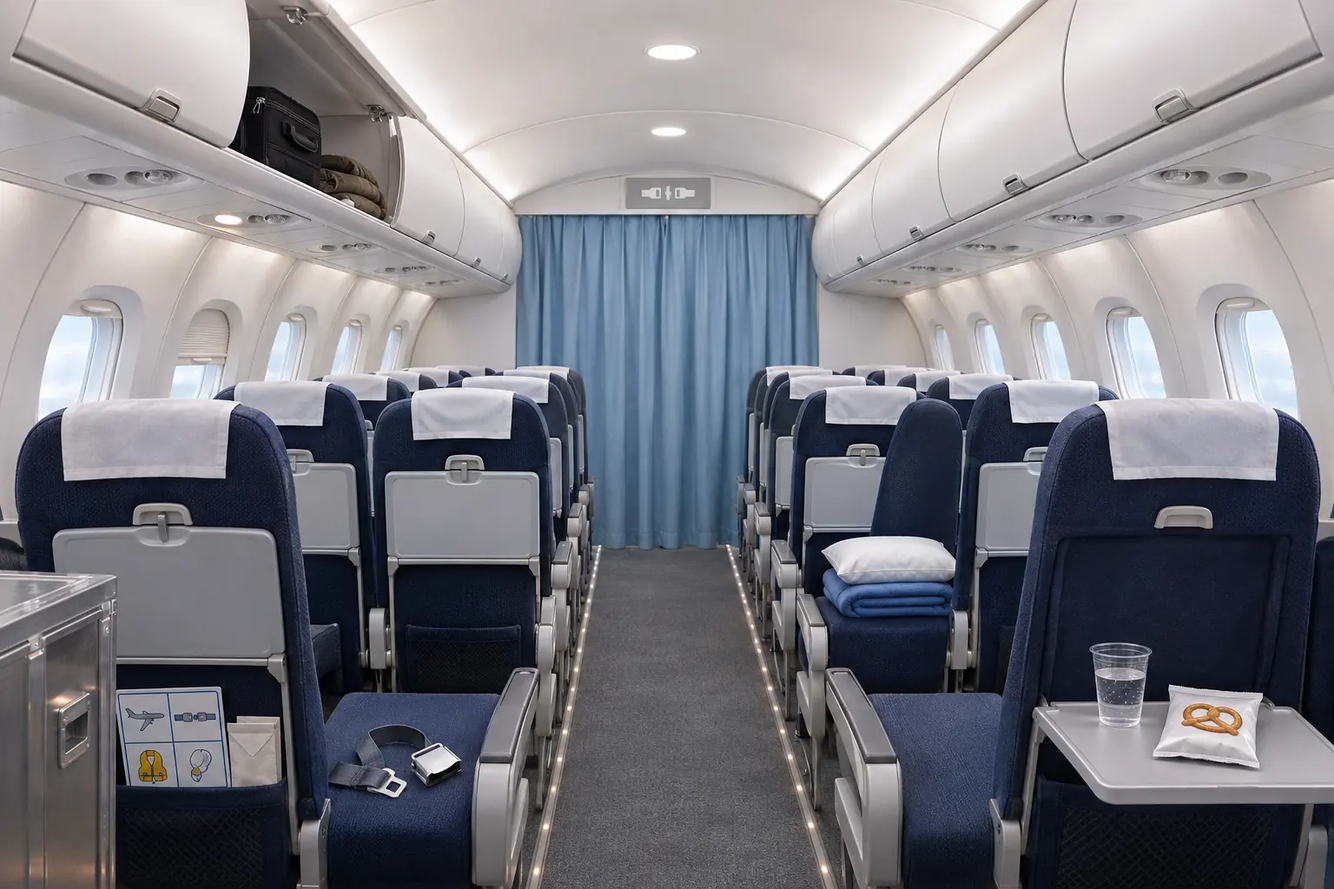
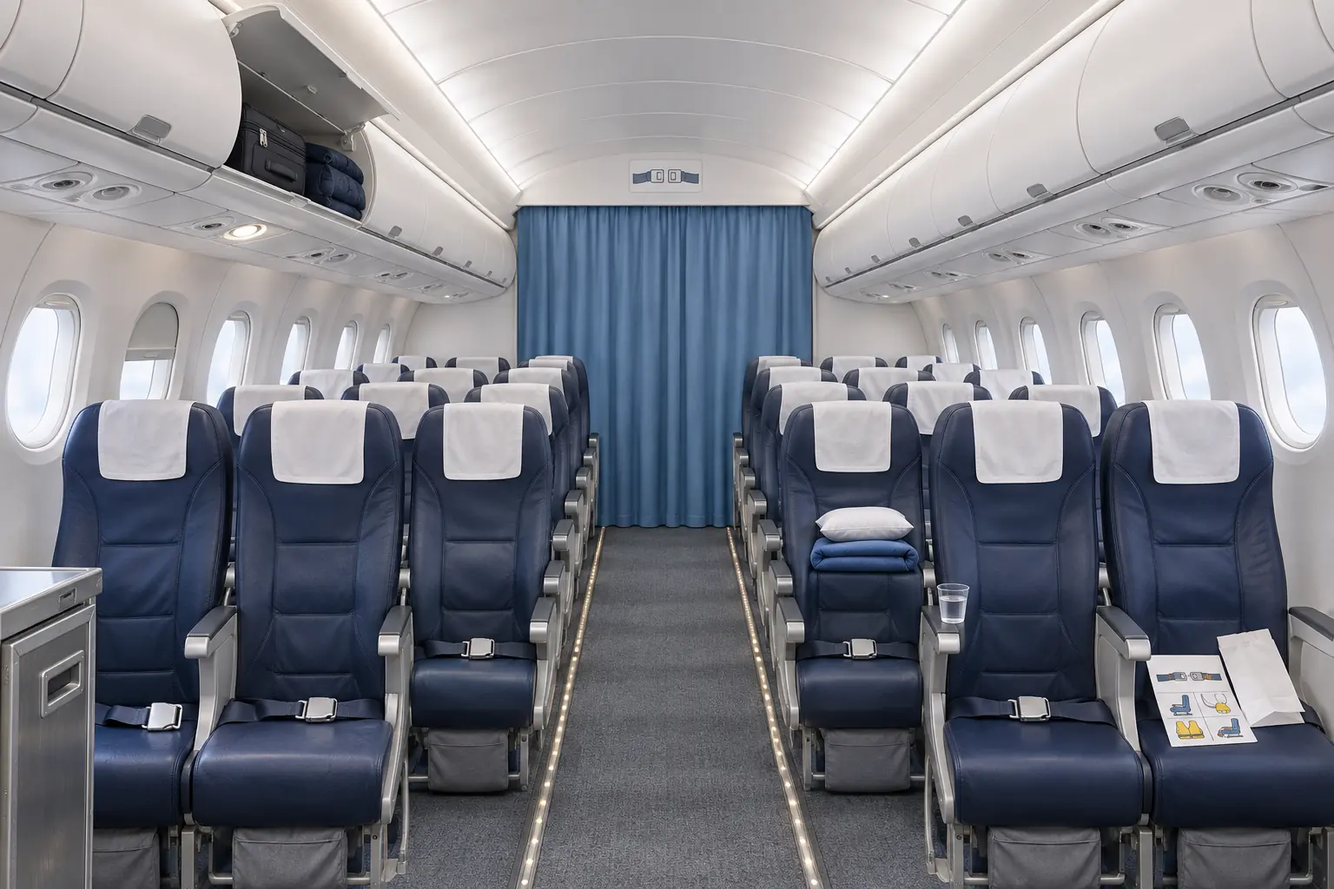
Re-render the airport cabin with every seat facing the camera

diff --git a/airport.html b/airport.html
@@ -8,7 +8,7 @@
 <link rel="preconnect" href="https://fonts.gstatic.com" crossorigin>
 <link rel="stylesheet" href="assets/theme.css">
 <link href="https://fonts.googleapis.com/css2?family=Outfit:wght@400;500;600;700;800&family=JetBrains+Mono:wght@400;500&display=swap" rel="stylesheet">
-<meta name="description" content="Take a trip through an airport, from the taxi at departures to your seat on the plane and back out through arrivals, and learn the English name of everything you see: 289 words across nine views, with a game to test yourself.">
+<meta name="description" content="Take a trip through an airport, from the taxi at departures to your seat on the plane and back out through arrivals, and learn the English name of everything you see: 285 words across nine views, with a game to test yourself.">
 <link rel="canonical" href="https://johnplusenglish.com/airport.html">
 <style>
 :root{--ink:#14161a;--ink-2:#4a4f58;--ink-3:#7b818c;--line:#e3e1dc;--bg:#f6f5f2;--card:#fff;--accent:#1d4e89;--good:#1f7a4d;--bad:#b3382c;
@@ -509,7 +509,7 @@ body.presenting{overflow:hidden}
 <script src="https://cdn.jsdelivr.net/npm/motion@14.9.0/dist/motion.js" integrity="sha384-mzhnnVPTOvuHjQX0cuFH5wg2l5YcbPcpPqOoHFowMkg6VYQBWwZKGH+EAVZsi6zJ" crossorigin="anonymous"></script>
 <script>
 /* One room or the whole flat: ROOMS is the only difference between them. */
-var ROOMS=[{"title": "The drop-off", "alt": "The front of an airport terminal with a taxi at the kerb and luggage trolleys", "key": "airport_vocab_the_drop_off_v1", "img": "images/airport/the-drop-off.webp", "at": [0.056, 0.361], "words": [{"x": 59.5, "y": 18.0, "w": "cloud"}, {"x": 30.0, "y": 29.5, "w": "canopy"}, {"x": 24.3, "y": 33.1, "w": "ceiling light"}, {"x": 51.5, "y": 36.4, "w": "departures sign"}, {"x": 22.3, "y": 44.3, "w": "departure board"}, {"x": 51.3, "y": 50.0, "w": "revolving door"}, {"x": 31.3, "y": 51.5, "w": "sliding doors"}, {"x": 70.2, "y": 38.5, "w": "pillar"}, {"x": 12.5, "y": 55.6, "w": "taxi"}, {"x": 12.0, "y": 48.5, "w": "taxi sign"}, {"x": 21.0, "y": 52.0, "w": "boot"}, {"x": 8.3, "y": 52.6, "w": "wing mirror"}, {"x": 19.5, "y": 55.0, "w": "rear light"}, {"x": 21.5, "y": 57.9, "w": "number plate"}, {"x": 16.8, "y": 59.0, "w": "wheel"}, {"x": 23.8, "y": 59.4, "w": "suitcase"}, {"x": 35.0, "y": 55.2, "w": "bin"}, {"x": 40.1, "y": 56.0, "w": "bench"}, {"x": 59.6, "y": 55.4, "w": "recycling bin"}, {"x": 63.5, "y": 55.6, "w": "wheelchair"}, {"x": 75.1, "y": 55.6, "w": "luggage trolley"}, {"x": 77.8, "y": 52.6, "w": "backpack"}, {"x": 84.6, "y": 52.6, "w": "plants"}, {"x": 84.6, "y": 57.1, "w": "planter"}, {"x": 91.6, "y": 42.0, "w": "bus shelter"}, {"x": 97.6, "y": 37.6, "w": "bus stop sign"}, {"x": 90.1, "y": 69.1, "w": "zebra crossing"}, {"x": 68.1, "y": 69.5, "w": "manhole cover"}, {"x": 16.5, "y": 67.4, "w": "white line"}, {"x": 40.0, "y": 82.0, "w": "kerb"}, {"x": 50.0, "y": 92.0, "w": "pavement"}, {"x": 1.3, "y": 70.0, "w": "bollard"}]}, {"title": "Check-in", "alt": "An airport check-in hall with three desks, a departure board and queue barriers", "key": "airport_vocab_the_check_in_v1", "img": "images/airport/the-check-in.webp", "at": [0.183, 0.361], "words": [{"x": 24.1, "y": 7.0, "w": "ceiling light"}, {"x": 44.9, "y": 29.5, "w": "departure board"}, {"x": 6.5, "y": 52.0, "w": "self check-in kiosk"}, {"x": 14.8, "y": 50.0, "w": "bag drop"}, {"x": 17.0, "y": 40.0, "w": "wrapping machine"}, {"x": 22.8, "y": 44.0, "w": "water fountain"}, {"x": 23.8, "y": 51.1, "w": "bin"}, {"x": 46.7, "y": 49.5, "w": "check-in desk"}, {"x": 28.8, "y": 42.0, "w": "monitor"}, {"x": 46.0, "y": 45.4, "w": "bag tags"}, {"x": 32.4, "y": 44.6, "w": "printer"}, {"x": 26.8, "y": 44.9, "w": "card machine"}, {"x": 37.9, "y": 52.3, "w": "bag scale"}, {"x": 51.6, "y": 50.8, "w": "conveyor belt"}, {"x": 34.2, "y": 61.0, "w": "suitcase"}, {"x": 34.5, "y": 54.0, "w": "holdall"}, {"x": 34.1, "y": 66.1, "w": "luggage trolley"}, {"x": 49.2, "y": 59.6, "w": "pushchair"}, {"x": 63.5, "y": 63.5, "w": "ride-on suitcase"}, {"x": 71.9, "y": 62.5, "w": "queue barrier"}, {"x": 9.1, "y": 80.6, "w": "wet floor sign"}, {"x": 95.2, "y": 22.8, "w": "clock"}, {"x": 71.1, "y": 28.3, "w": "sign"}, {"x": 72.9, "y": 41.0, "w": "doorway"}, {"x": 67.1, "y": 41.0, "w": "frosted glass"}, {"x": 81.7, "y": 34.2, "w": "cabinet"}, {"x": 81.1, "y": 39.1, "w": "plastic bags"}, {"x": 80.1, "y": 47.7, "w": "table"}, {"x": 83.3, "y": 54.2, "w": "luggage sizer"}, {"x": 95.7, "y": 59.6, "w": "bench"}]}, {"title": "Security", "alt": "Airport security with the X-ray belt, grey trays and a metal detector arch", "key": "airport_vocab_security_v1", "img": "images/airport/security.webp", "at": [0.355, 0.361], "words": [{"x": 22.8, "y": 6.1, "w": "ceiling light"}, {"x": 14.5, "y": 54.7, "w": "X-ray machine"}, {"x": 8.1, "y": 49.3, "w": "emergency button"}, {"x": 6.5, "y": 87.9, "w": "rollers"}, {"x": 5.9, "y": 81.1, "w": "tray"}, {"x": 4.9, "y": 75.2, "w": "laptop"}, {"x": 7.2, "y": 67.4, "w": "trainers"}, {"x": 11.7, "y": 68.7, "w": "belt"}, {"x": 12.1, "y": 63.0, "w": "phone"}, {"x": 14.1, "y": 63.3, "w": "keys"}, {"x": 16.4, "y": 62.9, "w": "watch"}, {"x": 23.8, "y": 45.9, "w": "stack of trays"}, {"x": 26.4, "y": 52.0, "w": "plastic bag"}, {"x": 34.2, "y": 43.9, "w": "body scanner"}, {"x": 43.8, "y": 46.9, "w": "metal detector"}, {"x": 61.0, "y": 54.3, "w": "wand"}, {"x": 65.0, "y": 57.0, "w": "table"}, {"x": 71.9, "y": 48.5, "w": "desk"}, {"x": 66.3, "y": 43.5, "w": "monitor"}, {"x": 68.4, "y": 51.3, "w": "office chair"}, {"x": 68.4, "y": 30.6, "w": "clock"}, {"x": 74.9, "y": 32.2, "w": "frosted glass"}, {"x": 89.8, "y": 29.8, "w": "sign"}, {"x": 90.8, "y": 44.4, "w": "shelf"}, {"x": 91.8, "y": 41.8, "w": "box of gloves"}, {"x": 78.8, "y": 59.6, "w": "trolley"}, {"x": 86.9, "y": 54.7, "w": "bin"}, {"x": 82.8, "y": 61.3, "w": "water bottles"}, {"x": 89.8, "y": 62.5, "w": "bench"}, {"x": 96.4, "y": 61.0, "w": "shoes"}, {"x": 71.6, "y": 78.1, "w": "queue barrier"}]}, {"title": "Duty free", "alt": "A duty free shop with perfume, chocolates, sunglasses and a till", "key": "airport_vocab_duty_free_v1", "img": "images/airport/duty-free.webp", "at": [0.505, 0.361], "words": [{"x": 3.5, "y": 26.5, "w": "foundation"}, {"x": 3.5, "y": 36.8, "w": "lipstick"}, {"x": 9.0, "y": 40.0, "w": "mirror"}, {"x": 5.0, "y": 56.4, "w": "nail varnish"}, {"x": 6.2, "y": 64.6, "w": "face cream"}, {"x": 8.3, "y": 74.2, "w": "body lotion"}, {"x": 3.5, "y": 86.5, "w": "shopping baskets"}, {"x": 12.8, "y": 41.4, "w": "sunglasses"}, {"x": 19.3, "y": 33.5, "w": "neck pillow"}, {"x": 19.3, "y": 43.6, "w": "eye mask"}, {"x": 19.0, "y": 51.5, "w": "adaptor"}, {"x": 19.0, "y": 60.2, "w": "charging cables"}, {"x": 32.3, "y": 39.1, "w": "perfume"}, {"x": 30.1, "y": 68.0, "w": "box of chocolates"}, {"x": 38.3, "y": 70.7, "w": "gift boxes"}, {"x": 48.1, "y": 71.4, "w": "teddy bear"}, {"x": 48.6, "y": 79.0, "w": "table"}, {"x": 24.9, "y": 3.8, "w": "ceiling light"}, {"x": 49.6, "y": 29.3, "w": "sign"}, {"x": 50.0, "y": 50.0, "w": "doorway"}, {"x": 60.8, "y": 45.5, "w": "chocolate bars"}, {"x": 66.1, "y": 51.9, "w": "biscuit tin"}, {"x": 64.0, "y": 58.3, "w": "bags of sweets"}, {"x": 58.0, "y": 64.7, "w": "postcards"}, {"x": 80.8, "y": 33.8, "w": "red wine"}, {"x": 87.1, "y": 29.7, "w": "white wine"}, {"x": 86.9, "y": 43.6, "w": "whisky"}, {"x": 76.1, "y": 57.1, "w": "card machine"}, {"x": 79.1, "y": 56.4, "w": "shopping bag"}, {"x": 82.6, "y": 53.4, "w": "till"}, {"x": 85.6, "y": 57.9, "w": "sweet jar"}, {"x": 80.1, "y": 67.7, "w": "counter"}, {"x": 87.2, "y": 70.3, "w": "stool"}, {"x": 93.6, "y": 28.6, "w": "sun hat"}, {"x": 95.6, "y": 40.6, "w": "sun cream"}, {"x": 96.1, "y": 78.2, "w": "aloe vera gel"}]}, {"title": "The gate", "alt": "A departure gate lounge with seats, the gate desk and a plane outside the window", "key": "airport_vocab_the_gate_v1", "img": "images/airport/the-gate.webp", "at": [0.654, 0.361], "words": [{"x": 53.4, "y": 38.1, "w": "plane"}, {"x": 47.4, "y": 30.8, "w": "tail"}, {"x": 36.5, "y": 38.6, "w": "wing"}, {"x": 44.6, "y": 44.4, "w": "engine"}, {"x": 60.5, "y": 36.1, "w": "cockpit"}, {"x": 53.4, "y": 46.9, "w": "steps"}, {"x": 65.1, "y": 40.0, "w": "jet bridge"}, {"x": 61.2, "y": 48.8, "w": "wheels"}, {"x": 57.3, "y": 51.0, "w": "traffic cone"}, {"x": 28.6, "y": 47.6, "w": "van"}, {"x": 26.0, "y": 29.3, "w": "window"}, {"x": 82.5, "y": 38.4, "w": "departures board"}, {"x": 35.5, "y": 55.2, "w": "gate desk"}, {"x": 33.4, "y": 47.7, "w": "monitor"}, {"x": 40.7, "y": 48.8, "w": "phone"}, {"x": 37.4, "y": 48.8, "w": "scanner"}, {"x": 73.0, "y": 42.0, "w": "door"}, {"x": 72.8, "y": 56.6, "w": "queue barrier"}, {"x": 95.7, "y": 83.0, "w": "bin"}, {"x": 82.0, "y": 54.7, "w": "recycling bin"}, {"x": 96.0, "y": 65.4, "w": "vending machine"}, {"x": 96.4, "y": 34.2, "w": "crisps"}, {"x": 96.5, "y": 41.0, "w": "biscuits"}, {"x": 95.1, "y": 51.8, "w": "apples"}, {"x": 96.4, "y": 58.1, "w": "bottles of juice"}, {"x": 86.1, "y": 58.6, "w": "takeaway cup"}, {"x": 88.9, "y": 61.0, "w": "newspaper"}, {"x": 30.6, "y": 70.3, "w": "seat"}, {"x": 77.5, "y": 74.2, "w": "cabin bag"}, {"x": 73.4, "y": 80.6, "w": "shopping bag"}, {"x": 19.0, "y": 63.0, "w": "rucksack"}, {"x": 18.8, "y": 56.2, "w": "neck pillow"}, {"x": 12.4, "y": 46.0, "w": "water fountain"}, {"x": 7.0, "y": 49.5, "w": "charging point"}, {"x": 7.8, "y": 58.6, "w": "bar stool"}, {"x": 6.5, "y": 53.7, "w": "counter"}, {"x": 49.8, "y": 7.8, "w": "ceiling light"}, {"x": 41.7, "y": 93.8, "w": "carpet"}]}, {"title": "On the plane", "alt": "Inside a plane, looking down the aisle between the rows of seats", "key": "airport_vocab_on_the_plane_v1", "img": "images/airport/on-the-plane.webp", "at": [0.843, 0.418], "words": [{"x": 84.6, "y": 8.8, "w": "overhead locker"}, {"x": 20.8, "y": 13.7, "w": "cabin bag"}, {"x": 26.4, "y": 20.0, "w": "coat"}, {"x": 11.7, "y": 19.8, "w": "air vent"}, {"x": 17.1, "y": 24.6, "w": "reading light"}, {"x": 50.5, "y": 5.7, "w": "ceiling light"}, {"x": 50.0, "y": 21.5, "w": "seatbelt sign"}, {"x": 49.8, "y": 41.0, "w": "curtain"}, {"x": 6.5, "y": 39.1, "w": "window"}, {"x": 15.5, "y": 37.1, "w": "window blind"}, {"x": 48.8, "y": 76.2, "w": "aisle"}, {"x": 59.0, "y": 85.9, "w": "floor lights"}, {"x": 11.1, "y": 49.8, "w": "headrest"}, {"x": 37.1, "y": 45.9, "w": "row of seats"}, {"x": 81.4, "y": 83.5, "w": "tray table"}, {"x": 28.0, "y": 79.6, "w": "seat"}, {"x": 70.3, "y": 83.0, "w": "aisle seat"}, {"x": 33.2, "y": 84.0, "w": "seatbelt"}, {"x": 15.0, "y": 93.8, "w": "seat pocket"}, {"x": 12.4, "y": 83.0, "w": "safety card"}, {"x": 18.9, "y": 83.5, "w": "sick bag"}, {"x": 38.4, "y": 84.0, "w": "armrest"}, {"x": 66.4, "y": 61.5, "w": "pillow"}, {"x": 66.4, "y": 66.4, "w": "blanket"}, {"x": 83.9, "y": 76.7, "w": "plastic cup"}, {"x": 90.5, "y": 81.1, "w": "pretzels"}, {"x": 3.9, "y": 78.1, "w": "trolley"}]}, {"title": "Passport control", "alt": "Passport control with three booths, e-gates and queue barriers", "key": "airport_vocab_passport_control_v1", "img": "images/airport/passport-control.webp", "at": [0.643, 0.836], "words": [{"x": 18.3, "y": 10.9, "w": "ceiling light"}, {"x": 50.1, "y": 30.4, "w": "sign"}, {"x": 10.3, "y": 35.0, "w": "lighthouse"}, {"x": 13.5, "y": 44.5, "w": "picture"}, {"x": 4.3, "y": 56.0, "w": "water fountain"}, {"x": 7.4, "y": 67.6, "w": "bin"}, {"x": 14.5, "y": 59.4, "w": "seats"}, {"x": 19.8, "y": 48.1, "w": "plant"}, {"x": 27.8, "y": 38.3, "w": "passport booth"}, {"x": 25.8, "y": 48.8, "w": "monitor"}, {"x": 29.2, "y": 45.1, "w": "camera"}, {"x": 28.7, "y": 50.4, "w": "chair"}, {"x": 31.7, "y": 50.0, "w": "scanner"}, {"x": 32.6, "y": 46.2, "w": "glass screen"}, {"x": 27.8, "y": 55.6, "w": "desk"}, {"x": 27.8, "y": 62.7, "w": "yellow line"}, {"x": 34.5, "y": 67.6, "w": "suitcase"}, {"x": 23.3, "y": 68.4, "w": "queue barrier"}, {"x": 55.0, "y": 46.2, "w": "screen"}, {"x": 61.6, "y": 54.0, "w": "e-gate"}, {"x": 75.6, "y": 49.2, "w": "passport reader"}, {"x": 65.6, "y": 63.9, "w": "pushchair"}, {"x": 82.6, "y": 57.1, "w": "luggage trolleys"}, {"x": 93.1, "y": 64.6, "w": "bench"}, {"x": 89.4, "y": 43.2, "w": "sheep"}, {"x": 96.6, "y": 25.2, "w": "clock"}]}, {"title": "Baggage reclaim", "alt": "A baggage reclaim hall with suitcases on the carousel and luggage trolleys", "key": "airport_vocab_baggage_reclaim_v1", "img": "images/airport/baggage-reclaim.webp", "at": [0.436, 0.836], "words": [{"x": 22.8, "y": 11.4, "w": "ceiling light"}, {"x": 3.3, "y": 42.1, "w": "cash machine"}, {"x": 5.3, "y": 60.1, "w": "bin"}, {"x": 8.8, "y": 54.8, "w": "recycling bin"}, {"x": 11.3, "y": 47.3, "w": "water fountain"}, {"x": 14.5, "y": 52.6, "w": "seats"}, {"x": 32.1, "y": 33.4, "w": "sign"}, {"x": 29.1, "y": 43.2, "w": "monitor"}, {"x": 32.8, "y": 45.1, "w": "phone"}, {"x": 35.7, "y": 45.5, "w": "forms"}, {"x": 39.0, "y": 45.3, "w": "bell"}, {"x": 32.8, "y": 51.8, "w": "lost luggage desk"}, {"x": 46.1, "y": 29.9, "w": "exit sign"}, {"x": 46.1, "y": 45.1, "w": "sliding doors"}, {"x": 30.1, "y": 71.8, "w": "baggage carousel"}, {"x": 24.6, "y": 66.1, "w": "conveyor belt"}, {"x": 37.6, "y": 63.1, "w": "suitcase"}, {"x": 47.4, "y": 65.4, "w": "holdall"}, {"x": 55.8, "y": 64.2, "w": "backpack"}, {"x": 62.8, "y": 63.1, "w": "cabin bag"}, {"x": 71.0, "y": 62.4, "w": "luggage tag"}, {"x": 64.8, "y": 44.0, "w": "golf clubs"}, {"x": 64.5, "y": 50.3, "w": "golf bag"}, {"x": 71.1, "y": 48.1, "w": "bicycle box"}, {"x": 80.8, "y": 51.1, "w": "wheelchairs"}, {"x": 78.6, "y": 66.7, "w": "pushchair"}, {"x": 80.3, "y": 60.3, "w": "rain cover"}, {"x": 91.1, "y": 54.1, "w": "bench"}, {"x": 87.3, "y": 31.2, "w": "clock"}, {"x": 93.1, "y": 37.6, "w": "picture"}, {"x": 97.1, "y": 29.3, "w": "palm tree"}, {"x": 95.6, "y": 42.4, "w": "beach"}, {"x": 68.8, "y": 32.3, "w": "screen"}, {"x": 85.1, "y": 75.1, "w": "luggage trolley"}]}, {"title": "Arrivals", "alt": "An airport arrivals hall with a coffee kiosk, car hire desks and the exit to the taxis", "key": "airport_vocab_arrivals_v1", "img": "images/airport/arrivals.webp", "at": [0.206, 0.836], "words": [{"x": 16.8, "y": 5.6, "w": "ceiling light"}, {"x": 3.9, "y": 38.3, "w": "croissants"}, {"x": 4.9, "y": 42.2, "w": "muffins"}, {"x": 5.2, "y": 46.4, "w": "sandwiches"}, {"x": 7.8, "y": 34.2, "w": "display case"}, {"x": 13.0, "y": 36.1, "w": "paper cups"}, {"x": 12.0, "y": 41.0, "w": "coffee machine"}, {"x": 10.4, "y": 44.4, "w": "card machine"}, {"x": 6.5, "y": 51.8, "w": "counter"}, {"x": 19.0, "y": 51.2, "w": "table"}, {"x": 4.5, "y": 59.4, "w": "chair"}, {"x": 20.5, "y": 36.6, "w": "screen"}, {"x": 23.9, "y": 43.2, "w": "cash machine"}, {"x": 28.0, "y": 37.1, "w": "plant"}, {"x": 41.9, "y": 49.6, "w": "plant pot"}, {"x": 34.6, "y": 47.3, "w": "seats"}, {"x": 34.6, "y": 31.6, "w": "windows"}, {"x": 49.9, "y": 28.9, "w": "sign"}, {"x": 47.4, "y": 42.1, "w": "sliding doors"}, {"x": 18.0, "y": 67.6, "w": "balloons"}, {"x": 28.1, "y": 73.3, "w": "meeting rail"}, {"x": 49.9, "y": 83.4, "w": "arrow"}, {"x": 55.0, "y": 66.9, "w": "luggage trolley"}, {"x": 51.3, "y": 57.9, "w": "suitcase"}, {"x": 48.5, "y": 61.6, "w": "backpack"}, {"x": 35.5, "y": 40.5, "w": "taxi"}, {"x": 66.1, "y": 38.1, "w": "bus"}, {"x": 63.8, "y": 46.9, "w": "newspaper rack"}, {"x": 70.0, "y": 48.3, "w": "bin"}, {"x": 80.9, "y": 42.2, "w": "monitor"}, {"x": 83.0, "y": 44.5, "w": "toy car"}, {"x": 83.3, "y": 37.6, "w": "car keys"}, {"x": 81.1, "y": 51.3, "w": "car hire desk"}, {"x": 88.5, "y": 32.3, "w": "map"}, {"x": 76.6, "y": 64.6, "w": "bouquet"}]}];
+var ROOMS=[{"title": "The drop-off", "alt": "The front of an airport terminal with a taxi at the kerb and luggage trolleys", "key": "airport_vocab_the_drop_off_v1", "img": "images/airport/the-drop-off.webp", "at": [0.056, 0.361], "words": [{"x": 59.5, "y": 18.0, "w": "cloud"}, {"x": 30.0, "y": 29.5, "w": "canopy"}, {"x": 24.3, "y": 33.1, "w": "ceiling light"}, {"x": 51.5, "y": 36.4, "w": "departures sign"}, {"x": 22.3, "y": 44.3, "w": "departure board"}, {"x": 51.3, "y": 50.0, "w": "revolving door"}, {"x": 31.3, "y": 51.5, "w": "sliding doors"}, {"x": 70.2, "y": 38.5, "w": "pillar"}, {"x": 12.5, "y": 55.6, "w": "taxi"}, {"x": 12.0, "y": 48.5, "w": "taxi sign"}, {"x": 21.0, "y": 52.0, "w": "boot"}, {"x": 8.3, "y": 52.6, "w": "wing mirror"}, {"x": 19.5, "y": 55.0, "w": "rear light"}, {"x": 21.5, "y": 57.9, "w": "number plate"}, {"x": 16.8, "y": 59.0, "w": "wheel"}, {"x": 23.8, "y": 59.4, "w": "suitcase"}, {"x": 35.0, "y": 55.2, "w": "bin"}, {"x": 40.1, "y": 56.0, "w": "bench"}, {"x": 59.6, "y": 55.4, "w": "recycling bin"}, {"x": 63.5, "y": 55.6, "w": "wheelchair"}, {"x": 75.1, "y": 55.6, "w": "luggage trolley"}, {"x": 77.8, "y": 52.6, "w": "backpack"}, {"x": 84.6, "y": 52.6, "w": "plants"}, {"x": 84.6, "y": 57.1, "w": "planter"}, {"x": 91.6, "y": 42.0, "w": "bus shelter"}, {"x": 97.6, "y": 37.6, "w": "bus stop sign"}, {"x": 90.1, "y": 69.1, "w": "zebra crossing"}, {"x": 68.1, "y": 69.5, "w": "manhole cover"}, {"x": 16.5, "y": 67.4, "w": "white line"}, {"x": 40.0, "y": 82.0, "w": "kerb"}, {"x": 50.0, "y": 92.0, "w": "pavement"}, {"x": 1.3, "y": 70.0, "w": "bollard"}]}, {"title": "Check-in", "alt": "An airport check-in hall with three desks, a departure board and queue barriers", "key": "airport_vocab_the_check_in_v1", "img": "images/airport/the-check-in.webp", "at": [0.183, 0.361], "words": [{"x": 24.1, "y": 7.0, "w": "ceiling light"}, {"x": 44.9, "y": 29.5, "w": "departure board"}, {"x": 6.5, "y": 52.0, "w": "self check-in kiosk"}, {"x": 14.8, "y": 50.0, "w": "bag drop"}, {"x": 17.0, "y": 40.0, "w": "wrapping machine"}, {"x": 22.8, "y": 44.0, "w": "water fountain"}, {"x": 23.8, "y": 51.1, "w": "bin"}, {"x": 46.7, "y": 49.5, "w": "check-in desk"}, {"x": 28.8, "y": 42.0, "w": "monitor"}, {"x": 46.0, "y": 45.4, "w": "bag tags"}, {"x": 32.4, "y": 44.6, "w": "printer"}, {"x": 26.8, "y": 44.9, "w": "card machine"}, {"x": 37.9, "y": 52.3, "w": "bag scale"}, {"x": 51.6, "y": 50.8, "w": "conveyor belt"}, {"x": 34.2, "y": 61.0, "w": "suitcase"}, {"x": 34.5, "y": 54.0, "w": "holdall"}, {"x": 34.1, "y": 66.1, "w": "luggage trolley"}, {"x": 49.2, "y": 59.6, "w": "pushchair"}, {"x": 63.5, "y": 63.5, "w": "ride-on suitcase"}, {"x": 71.9, "y": 62.5, "w": "queue barrier"}, {"x": 9.1, "y": 80.6, "w": "wet floor sign"}, {"x": 95.2, "y": 22.8, "w": "clock"}, {"x": 71.1, "y": 28.3, "w": "sign"}, {"x": 72.9, "y": 41.0, "w": "doorway"}, {"x": 67.1, "y": 41.0, "w": "frosted glass"}, {"x": 81.7, "y": 34.2, "w": "cabinet"}, {"x": 81.1, "y": 39.1, "w": "plastic bags"}, {"x": 80.1, "y": 47.7, "w": "table"}, {"x": 83.3, "y": 54.2, "w": "luggage sizer"}, {"x": 95.7, "y": 59.6, "w": "bench"}]}, {"title": "Security", "alt": "Airport security with the X-ray belt, grey trays and a metal detector arch", "key": "airport_vocab_security_v1", "img": "images/airport/security.webp", "at": [0.355, 0.361], "words": [{"x": 22.8, "y": 6.1, "w": "ceiling light"}, {"x": 14.5, "y": 54.7, "w": "X-ray machine"}, {"x": 8.1, "y": 49.3, "w": "emergency button"}, {"x": 6.5, "y": 87.9, "w": "rollers"}, {"x": 5.9, "y": 81.1, "w": "tray"}, {"x": 4.9, "y": 75.2, "w": "laptop"}, {"x": 7.2, "y": 67.4, "w": "trainers"}, {"x": 11.7, "y": 68.7, "w": "belt"}, {"x": 12.1, "y": 63.0, "w": "phone"}, {"x": 14.1, "y": 63.3, "w": "keys"}, {"x": 16.4, "y": 62.9, "w": "watch"}, {"x": 23.8, "y": 45.9, "w": "stack of trays"}, {"x": 26.4, "y": 52.0, "w": "plastic bag"}, {"x": 34.2, "y": 43.9, "w": "body scanner"}, {"x": 43.8, "y": 46.9, "w": "metal detector"}, {"x": 61.0, "y": 54.3, "w": "wand"}, {"x": 65.0, "y": 57.0, "w": "table"}, {"x": 71.9, "y": 48.5, "w": "desk"}, {"x": 66.3, "y": 43.5, "w": "monitor"}, {"x": 68.4, "y": 51.3, "w": "office chair"}, {"x": 68.4, "y": 30.6, "w": "clock"}, {"x": 74.9, "y": 32.2, "w": "frosted glass"}, {"x": 89.8, "y": 29.8, "w": "sign"}, {"x": 90.8, "y": 44.4, "w": "shelf"}, {"x": 91.8, "y": 41.8, "w": "box of gloves"}, {"x": 78.8, "y": 59.6, "w": "trolley"}, {"x": 86.9, "y": 54.7, "w": "bin"}, {"x": 82.8, "y": 61.3, "w": "water bottles"}, {"x": 89.8, "y": 62.5, "w": "bench"}, {"x": 96.4, "y": 61.0, "w": "shoes"}, {"x": 71.6, "y": 78.1, "w": "queue barrier"}]}, {"title": "Duty free", "alt": "A duty free shop with perfume, chocolates, sunglasses and a till", "key": "airport_vocab_duty_free_v1", "img": "images/airport/duty-free.webp", "at": [0.505, 0.361], "words": [{"x": 3.5, "y": 26.5, "w": "foundation"}, {"x": 3.5, "y": 36.8, "w": "lipstick"}, {"x": 9.0, "y": 40.0, "w": "mirror"}, {"x": 5.0, "y": 56.4, "w": "nail varnish"}, {"x": 6.2, "y": 64.6, "w": "face cream"}, {"x": 8.3, "y": 74.2, "w": "body lotion"}, {"x": 3.5, "y": 86.5, "w": "shopping baskets"}, {"x": 12.8, "y": 41.4, "w": "sunglasses"}, {"x": 19.3, "y": 33.5, "w": "neck pillow"}, {"x": 19.3, "y": 43.6, "w": "eye mask"}, {"x": 19.0, "y": 51.5, "w": "adaptor"}, {"x": 19.0, "y": 60.2, "w": "charging cables"}, {"x": 32.3, "y": 39.1, "w": "perfume"}, {"x": 30.1, "y": 68.0, "w": "box of chocolates"}, {"x": 38.3, "y": 70.7, "w": "gift boxes"}, {"x": 48.1, "y": 71.4, "w": "teddy bear"}, {"x": 48.6, "y": 79.0, "w": "table"}, {"x": 24.9, "y": 3.8, "w": "ceiling light"}, {"x": 49.6, "y": 29.3, "w": "sign"}, {"x": 50.0, "y": 50.0, "w": "doorway"}, {"x": 60.8, "y": 45.5, "w": "chocolate bars"}, {"x": 66.1, "y": 51.9, "w": "biscuit tin"}, {"x": 64.0, "y": 58.3, "w": "bags of sweets"}, {"x": 58.0, "y": 64.7, "w": "postcards"}, {"x": 80.8, "y": 33.8, "w": "red wine"}, {"x": 87.1, "y": 29.7, "w": "white wine"}, {"x": 86.9, "y": 43.6, "w": "whisky"}, {"x": 76.1, "y": 57.1, "w": "card machine"}, {"x": 79.1, "y": 56.4, "w": "shopping bag"}, {"x": 82.6, "y": 53.4, "w": "till"}, {"x": 85.6, "y": 57.9, "w": "sweet jar"}, {"x": 80.1, "y": 67.7, "w": "counter"}, {"x": 87.2, "y": 70.3, "w": "stool"}, {"x": 93.6, "y": 28.6, "w": "sun hat"}, {"x": 95.6, "y": 40.6, "w": "sun cream"}, {"x": 96.1, "y": 78.2, "w": "aloe vera gel"}]}, {"title": "The gate", "alt": "A departure gate lounge with seats, the gate desk and a plane outside the window", "key": "airport_vocab_the_gate_v1", "img": "images/airport/the-gate.webp", "at": [0.654, 0.361], "words": [{"x": 53.4, "y": 38.1, "w": "plane"}, {"x": 47.4, "y": 30.8, "w": "tail"}, {"x": 36.5, "y": 38.6, "w": "wing"}, {"x": 44.6, "y": 44.4, "w": "engine"}, {"x": 60.5, "y": 36.1, "w": "cockpit"}, {"x": 53.4, "y": 46.9, "w": "steps"}, {"x": 65.1, "y": 40.0, "w": "jet bridge"}, {"x": 61.2, "y": 48.8, "w": "wheels"}, {"x": 57.3, "y": 51.0, "w": "traffic cone"}, {"x": 28.6, "y": 47.6, "w": "van"}, {"x": 26.0, "y": 29.3, "w": "window"}, {"x": 82.5, "y": 38.4, "w": "departures board"}, {"x": 35.5, "y": 55.2, "w": "gate desk"}, {"x": 33.4, "y": 47.7, "w": "monitor"}, {"x": 40.7, "y": 48.8, "w": "phone"}, {"x": 37.4, "y": 48.8, "w": "scanner"}, {"x": 73.0, "y": 42.0, "w": "door"}, {"x": 72.8, "y": 56.6, "w": "queue barrier"}, {"x": 95.7, "y": 83.0, "w": "bin"}, {"x": 82.0, "y": 54.7, "w": "recycling bin"}, {"x": 96.0, "y": 65.4, "w": "vending machine"}, {"x": 96.4, "y": 34.2, "w": "crisps"}, {"x": 96.5, "y": 41.0, "w": "biscuits"}, {"x": 95.1, "y": 51.8, "w": "apples"}, {"x": 96.4, "y": 58.1, "w": "bottles of juice"}, {"x": 86.1, "y": 58.6, "w": "takeaway cup"}, {"x": 88.9, "y": 61.0, "w": "newspaper"}, {"x": 30.6, "y": 70.3, "w": "seat"}, {"x": 77.5, "y": 74.2, "w": "cabin bag"}, {"x": 73.4, "y": 80.6, "w": "shopping bag"}, {"x": 19.0, "y": 63.0, "w": "rucksack"}, {"x": 18.8, "y": 56.2, "w": "neck pillow"}, {"x": 12.4, "y": 46.0, "w": "water fountain"}, {"x": 7.0, "y": 49.5, "w": "charging point"}, {"x": 7.8, "y": 58.6, "w": "bar stool"}, {"x": 6.5, "y": 53.7, "w": "counter"}, {"x": 49.8, "y": 7.8, "w": "ceiling light"}, {"x": 41.7, "y": 93.8, "w": "carpet"}]}, {"title": "On the plane", "alt": "Inside a plane, looking down the aisle between the rows of seats", "key": "airport_vocab_on_the_plane_v1", "img": "images/airport/on-the-plane.webp", "at": [0.843, 0.418], "words": [{"x": 25.5, "y": 12.0, "w": "overhead locker"}, {"x": 19.5, "y": 16.0, "w": "cabin bag"}, {"x": 8.0, "y": 21.5, "w": "air vent"}, {"x": 17.5, "y": 26.0, "w": "reading light"}, {"x": 50.0, "y": 19.5, "w": "seatbelt sign"}, {"x": 50.0, "y": 42.0, "w": "curtain"}, {"x": 3.5, "y": 40.0, "w": "window"}, {"x": 11.5, "y": 37.0, "w": "window blind"}, {"x": 11.0, "y": 49.5, "w": "headrest"}, {"x": 10.0, "y": 61.0, "w": "seat"}, {"x": 16.0, "y": 71.5, "w": "armrest"}, {"x": 8.5, "y": 80.2, "w": "seatbelt"}, {"x": 23.0, "y": 79.5, "w": "buckle"}, {"x": 34.5, "y": 85.5, "w": "life jacket"}, {"x": 3.5, "y": 75.0, "w": "trolley"}, {"x": 43.1, "y": 70.0, "w": "floor lights"}, {"x": 46.0, "y": 88.0, "w": "aisle"}, {"x": 65.5, "y": 58.0, "w": "pillow"}, {"x": 65.5, "y": 62.5, "w": "blanket"}, {"x": 71.5, "y": 67.0, "w": "plastic cup"}, {"x": 75.0, "y": 86.0, "w": "cushion"}, {"x": 89.5, "y": 78.0, "w": "safety card"}, {"x": 94.0, "y": 74.0, "w": "sick bag"}]}, {"title": "Passport control", "alt": "Passport control with three booths, e-gates and queue barriers", "key": "airport_vocab_passport_control_v1", "img": "images/airport/passport-control.webp", "at": [0.643, 0.836], "words": [{"x": 18.3, "y": 10.9, "w": "ceiling light"}, {"x": 50.1, "y": 30.4, "w": "sign"}, {"x": 10.3, "y": 35.0, "w": "lighthouse"}, {"x": 13.5, "y": 44.5, "w": "picture"}, {"x": 4.3, "y": 56.0, "w": "water fountain"}, {"x": 7.4, "y": 67.6, "w": "bin"}, {"x": 14.5, "y": 59.4, "w": "seats"}, {"x": 19.8, "y": 48.1, "w": "plant"}, {"x": 27.8, "y": 38.3, "w": "passport booth"}, {"x": 25.8, "y": 48.8, "w": "monitor"}, {"x": 29.2, "y": 45.1, "w": "camera"}, {"x": 28.7, "y": 50.4, "w": "chair"}, {"x": 31.7, "y": 50.0, "w": "scanner"}, {"x": 32.6, "y": 46.2, "w": "glass screen"}, {"x": 27.8, "y": 55.6, "w": "desk"}, {"x": 27.8, "y": 62.7, "w": "yellow line"}, {"x": 34.5, "y": 67.6, "w": "suitcase"}, {"x": 23.3, "y": 68.4, "w": "queue barrier"}, {"x": 55.0, "y": 46.2, "w": "screen"}, {"x": 61.6, "y": 54.0, "w": "e-gate"}, {"x": 75.6, "y": 49.2, "w": "passport reader"}, {"x": 65.6, "y": 63.9, "w": "pushchair"}, {"x": 82.6, "y": 57.1, "w": "luggage trolleys"}, {"x": 93.1, "y": 64.6, "w": "bench"}, {"x": 89.4, "y": 43.2, "w": "sheep"}, {"x": 96.6, "y": 25.2, "w": "clock"}]}, {"title": "Baggage reclaim", "alt": "A baggage reclaim hall with suitcases on the carousel and luggage trolleys", "key": "airport_vocab_baggage_reclaim_v1", "img": "images/airport/baggage-reclaim.webp", "at": [0.436, 0.836], "words": [{"x": 22.8, "y": 11.4, "w": "ceiling light"}, {"x": 3.3, "y": 42.1, "w": "cash machine"}, {"x": 5.3, "y": 60.1, "w": "bin"}, {"x": 8.8, "y": 54.8, "w": "recycling bin"}, {"x": 11.3, "y": 47.3, "w": "water fountain"}, {"x": 14.5, "y": 52.6, "w": "seats"}, {"x": 32.1, "y": 33.4, "w": "sign"}, {"x": 29.1, "y": 43.2, "w": "monitor"}, {"x": 32.8, "y": 45.1, "w": "phone"}, {"x": 35.7, "y": 45.5, "w": "forms"}, {"x": 39.0, "y": 45.3, "w": "bell"}, {"x": 32.8, "y": 51.8, "w": "lost luggage desk"}, {"x": 46.1, "y": 29.9, "w": "exit sign"}, {"x": 46.1, "y": 45.1, "w": "sliding doors"}, {"x": 30.1, "y": 71.8, "w": "baggage carousel"}, {"x": 24.6, "y": 66.1, "w": "conveyor belt"}, {"x": 37.6, "y": 63.1, "w": "suitcase"}, {"x": 47.4, "y": 65.4, "w": "holdall"}, {"x": 55.8, "y": 64.2, "w": "backpack"}, {"x": 62.8, "y": 63.1, "w": "cabin bag"}, {"x": 71.0, "y": 62.4, "w": "luggage tag"}, {"x": 64.8, "y": 44.0, "w": "golf clubs"}, {"x": 64.5, "y": 50.3, "w": "golf bag"}, {"x": 71.1, "y": 48.1, "w": "bicycle box"}, {"x": 80.8, "y": 51.1, "w": "wheelchairs"}, {"x": 78.6, "y": 66.7, "w": "pushchair"}, {"x": 80.3, "y": 60.3, "w": "rain cover"}, {"x": 91.1, "y": 54.1, "w": "bench"}, {"x": 87.3, "y": 31.2, "w": "clock"}, {"x": 93.1, "y": 37.6, "w": "picture"}, {"x": 97.1, "y": 29.3, "w": "palm tree"}, {"x": 95.6, "y": 42.4, "w": "beach"}, {"x": 68.8, "y": 32.3, "w": "screen"}, {"x": 85.1, "y": 75.1, "w": "luggage trolley"}]}, {"title": "Arrivals", "alt": "An airport arrivals hall with a coffee kiosk, car hire desks and the exit to the taxis", "key": "airport_vocab_arrivals_v1", "img": "images/airport/arrivals.webp", "at": [0.206, 0.836], "words": [{"x": 16.8, "y": 5.6, "w": "ceiling light"}, {"x": 3.9, "y": 38.3, "w": "croissants"}, {"x": 4.9, "y": 42.2, "w": "muffins"}, {"x": 5.2, "y": 46.4, "w": "sandwiches"}, {"x": 7.8, "y": 34.2, "w": "display case"}, {"x": 13.0, "y": 36.1, "w": "paper cups"}, {"x": 12.0, "y": 41.0, "w": "coffee machine"}, {"x": 10.4, "y": 44.4, "w": "card machine"}, {"x": 6.5, "y": 51.8, "w": "counter"}, {"x": 19.0, "y": 51.2, "w": "table"}, {"x": 4.5, "y": 59.4, "w": "chair"}, {"x": 20.5, "y": 36.6, "w": "screen"}, {"x": 23.9, "y": 43.2, "w": "cash machine"}, {"x": 28.0, "y": 37.1, "w": "plant"}, {"x": 41.9, "y": 49.6, "w": "plant pot"}, {"x": 34.6, "y": 47.3, "w": "seats"}, {"x": 34.6, "y": 31.6, "w": "windows"}, {"x": 49.9, "y": 28.9, "w": "sign"}, {"x": 47.4, "y": 42.1, "w": "sliding doors"}, {"x": 18.0, "y": 67.6, "w": "balloons"}, {"x": 28.1, "y": 73.3, "w": "meeting rail"}, {"x": 49.9, "y": 83.4, "w": "arrow"}, {"x": 55.0, "y": 66.9, "w": "luggage trolley"}, {"x": 51.3, "y": 57.9, "w": "suitcase"}, {"x": 48.5, "y": 61.6, "w": "backpack"}, {"x": 35.5, "y": 40.5, "w": "taxi"}, {"x": 66.1, "y": 38.1, "w": "bus"}, {"x": 63.8, "y": 46.9, "w": "newspaper rack"}, {"x": 70.0, "y": 48.3, "w": "bin"}, {"x": 80.9, "y": 42.2, "w": "monitor"}, {"x": 83.0, "y": 44.5, "w": "toy car"}, {"x": 83.3, "y": 37.6, "w": "car keys"}, {"x": 81.1, "y": 51.3, "w": "car hire desk"}, {"x": 88.5, "y": 32.3, "w": "map"}, {"x": 76.6, "y": 64.6, "w": "bouquet"}]}];
 var ri=0, KEY='';
 /* How every word is said. Kept by the word rather than by the room, because a
    cushion is a cushion in all seven, and kept apart from the hotspots so a list
@@ -517,7 +517,7 @@ var ri=0, KEY='';
    [British, every r sounded], and where the two are the same only one is kept.
    It sits below ROOMS, never between ROOMS and the line after it: that pair of
    lines is the anchor the builders use to read the words back out of a page. */
-var IPA={"X-ray machine": ["ˈeks reɪ məˌʃiːn"], "adaptor": ["əˈdæptə", "əˈdæptər"], "air vent": ["ˈeə vent", "ˈeːr vent"], "aisle": ["aɪl"], "aisle seat": ["ˈaɪl siːt"], "aloe vera gel": ["ˌæləʊ ˌvɪərə ˈdʒel"], "apples": ["ˈæplz"], "armrest": ["ˈɑːmrest", "ˈɑːrmrest"], "arrow": ["ˈærəʊ"], "backpack": ["ˈbækpæk"], "bag drop": ["ˈbæɡ drɒp"], "bag scale": ["ˈbæɡ skeɪl"], "bag tags": ["ˈbæɡ tæɡz"], "baggage carousel": ["ˈbæɡɪdʒ kærəˌsel"], "bags of sweets": ["ˌbæɡz əv ˈswiːts"], "balloons": ["bəˈluːnz"], "bar stool": ["ˈbɑː stuːl", "ˈbɑːr stuːl"], "beach": ["biːtʃ"], "bell": ["bel"], "belt": ["belt"], "bench": ["bentʃ"], "bicycle box": ["ˈbaɪsɪkl bɒks"], "bin": ["bɪn"], "biscuit tin": ["ˈbɪskɪt tɪn"], "biscuits": ["ˈbɪskɪts"], "blanket": ["ˈblæŋkɪt"], "body lotion": ["ˈbɒdi ˌləʊʃn"], "body scanner": ["ˈbɒdi ˌskænə", "ˈbɒdi ˌskænər"], "bollard": ["ˈbɒlɑːd", "ˈbɒlɑːrd"], "boot": ["buːt"], "bottles of juice": ["ˌbɒtlz əv ˈdʒuːs"], "bouquet": ["buˈkeɪ"], "box of chocolates": ["ˌbɒks əv ˈtʃɒkləts"], "box of gloves": ["ˌbɒks əv ˈɡlʌvz"], "bus": ["bʌs"], "bus shelter": ["ˈbʌs ˌʃeltə", "ˈbʌs ˌʃeltər"], "bus stop sign": ["ˈbʌs stɒp saɪn"], "cabin bag": ["ˈkæbɪn bæɡ"], "cabinet": ["ˈkæbɪnət"], "camera": ["ˈkæmərə"], "canopy": ["ˈkænəpi"], "car hire desk": ["ˈkɑː haɪə desk", "ˈkɑːr haɪər desk"], "car keys": ["ˈkɑː kiːz", "ˈkɑːr kiːz"], "card machine": ["ˈkɑːd məˌʃiːn", "ˈkɑːrd məˌʃiːn"], "carpet": ["ˈkɑːpɪt", "ˈkɑːrpɪt"], "cash machine": ["ˈkæʃ məˌʃiːn"], "ceiling light": ["ˈsiːlɪŋ laɪt"], "chair": ["tʃeə", "tʃeːr"], "charging cables": ["ˈtʃɑːdʒɪŋ ˌkeɪblz", "ˈtʃɑːrdʒɪŋ ˌkeɪblz"], "charging point": ["ˈtʃɑːdʒɪŋ pɔɪnt", "ˈtʃɑːrdʒɪŋ pɔɪnt"], "check-in desk": ["ˈtʃekɪn desk"], "chocolate bars": ["ˈtʃɒklət bɑːz", "ˈtʃɒklət bɑːrz"], "clock": ["klɒk"], "cloud": ["klaʊd"], "coat": ["kəʊt"], "cockpit": ["ˈkɒkpɪt"], "coffee machine": ["ˈkɒfi məˌʃiːn"], "conveyor belt": ["kənˈveɪə belt", "kənˈveɪər belt"], "counter": ["ˈkaʊntə", "ˈkaʊntər"], "crisps": ["krɪsps"], "croissants": ["ˈkwæsɒnts"], "curtain": ["ˈkɜːtn", "ˈkɜːrtn"], "departure board": ["dɪˈpɑːtʃə bɔːd", "dɪˈpɑːrtʃər bɔːrd"], "departures board": ["dɪˈpɑːtʃəz bɔːd", "dɪˈpɑːrtʃərz bɔːrd"], "departures sign": ["dɪˈpɑːtʃəz saɪn", "dɪˈpɑːrtʃərz saɪn"], "desk": ["desk"], "display case": ["dɪˈspleɪ keɪs"], "door": ["dɔː", "dɔːr"], "doorway": ["ˈdɔːweɪ", "ˈdɔːrweɪ"], "e-gate": ["ˈiː ɡeɪt"], "emergency button": ["ɪˈmɜːdʒənsi ˌbʌtn", "ɪˈmɜːrdʒənsi ˌbʌtn"], "engine": ["ˈendʒɪn"], "exit sign": ["ˈeksɪt saɪn"], "eye mask": ["ˈaɪ mɑːsk"], "face cream": ["ˈfeɪs kriːm"], "floor lights": ["ˈflɔː laɪts", "ˈflɔːr laɪts"], "forms": ["fɔːmz", "fɔːrmz"], "foundation": ["faʊnˈdeɪʃn"], "frosted glass": ["ˌfrɒstɪd ˈɡlɑːs"], "gate desk": ["ˈɡeɪt desk"], "gift boxes": ["ˈɡɪft ˌbɒksɪz"], "glass screen": ["ˌɡlɑːs ˈskriːn"], "golf bag": ["ˈɡɒlf bæɡ"], "golf clubs": ["ˈɡɒlf klʌbz"], "headrest": ["ˈhedrest"], "holdall": ["ˈhəʊldɔːl"], "jet bridge": ["ˈdʒet brɪdʒ"], "kerb": ["kɜːb", "kɜːrb"], "keys": ["kiːz"], "laptop": ["ˈlæptɒp"], "lighthouse": ["ˈlaɪthaʊs"], "lipstick": ["ˈlɪpstɪk"], "lost luggage desk": ["ˌlɒst ˈlʌɡɪdʒ desk"], "luggage sizer": ["ˈlʌɡɪdʒ ˌsaɪzə", "ˈlʌɡɪdʒ ˌsaɪzər"], "luggage tag": ["ˈlʌɡɪdʒ tæɡ"], "luggage trolley": ["ˈlʌɡɪdʒ ˌtrɒli"], "luggage trolleys": ["ˈlʌɡɪdʒ ˌtrɒliz"], "manhole cover": ["ˈmænhəʊl ˌkʌvə", "ˈmænhəʊl ˌkʌvər"], "map": ["mæp"], "meeting rail": ["ˈmiːtɪŋ reɪl"], "metal detector": ["ˈmetl dɪˌtektə", "ˈmetl dɪˌtektər"], "mirror": ["ˈmɪrə", "ˈmɪrər"], "monitor": ["ˈmɒnɪtə", "ˈmɒnɪtər"], "muffins": ["ˈmʌfɪnz"], "nail varnish": ["ˈneɪl ˌvɑːnɪʃ", "ˈneɪl ˌvɑːrnɪʃ"], "neck pillow": ["ˈnek ˌpɪləʊ"], "newspaper": ["ˈnjuːzpeɪpə", "ˈnjuːzpeɪpər"], "newspaper rack": ["ˈnjuːzpeɪpə ræk", "ˈnjuːzpeɪpər ræk"], "number plate": ["ˈnʌmbə pleɪt", "ˈnʌmbər pleɪt"], "office chair": ["ˈɒfɪs ˌtʃeə", "ˈɒfɪs ˌtʃeːr"], "overhead locker": ["ˌəʊvəhed ˈlɒkə", "ˌəʊvərhed ˈlɒkər"], "palm tree": ["ˈpɑːm triː"], "paper cups": ["ˌpeɪpə ˈkʌps", "ˌpeɪpər ˈkʌps"], "passport booth": ["ˈpɑːspɔːt buːð", "ˈpɑːspɔːrt buːð"], "passport reader": ["ˈpɑːspɔːt ˌriːdə", "ˈpɑːspɔːrt ˌriːdər"], "pavement": ["ˈpeɪvmənt"], "perfume": ["ˈpɜːfjuːm", "ˈpɜːrfjuːm"], "phone": ["fəʊn"], "picture": ["ˈpɪktʃə", "ˈpɪktʃər"], "pillar": ["ˈpɪlə", "ˈpɪlər"], "pillow": ["ˈpɪləʊ"], "plane": ["pleɪn"], "plant": ["plɑːnt"], "plant pot": ["ˈplɑːnt pɒt"], "planter": ["ˈplɑːntə", "ˈplɑːntər"], "plants": ["plɑːnts"], "plastic bag": ["ˌplæstɪk ˈbæɡ"], "plastic bags": ["ˌplæstɪk ˈbæɡz"], "plastic cup": ["ˌplæstɪk ˈkʌp"], "postcards": ["ˈpəʊstkɑːdz", "ˈpəʊstkɑːrdz"], "pretzels": ["ˈpretslz"], "printer": ["ˈprɪntə", "ˈprɪntər"], "pushchair": ["ˈpʊʃtʃeə", "ˈpʊʃtʃeːr"], "queue barrier": ["ˈkjuː ˌbæriə", "ˈkjuː ˌbæriər"], "rain cover": ["ˈreɪn ˌkʌvə", "ˈreɪn ˌkʌvər"], "reading light": ["ˈriːdɪŋ laɪt"], "rear light": ["ˈrɪə laɪt", "ˈrɪər laɪt"], "recycling bin": ["riːˈsaɪklɪŋ bɪn"], "red wine": ["ˌred ˈwaɪn"], "revolving door": ["rɪˌvɒlvɪŋ ˈdɔː", "rɪˌvɒlvɪŋ ˈdɔːr"], "ride-on suitcase": ["ˈraɪd ɒn ˌsuːtkeɪs"], "rollers": ["ˈrəʊləz", "ˈrəʊlərz"], "row of seats": ["ˌrəʊ əv ˈsiːts"], "rucksack": ["ˈrʌksæk"], "safety card": ["ˈseɪfti kɑːd", "ˈseɪfti kɑːrd"], "sandwiches": ["ˈsænwɪdʒɪz"], "scanner": ["ˈskænə", "ˈskænər"], "screen": ["skriːn"], "seat": ["siːt"], "seat pocket": ["ˈsiːt ˌpɒkɪt"], "seatbelt": ["ˈsiːtbelt"], "seatbelt sign": ["ˈsiːtbelt saɪn"], "seats": ["siːts"], "self check-in kiosk": ["ˌself ˈtʃekɪn ˌkiːɒsk"], "sheep": ["ʃiːp"], "shelf": ["ʃelf"], "shoes": ["ʃuːz"], "shopping bag": ["ˈʃɒpɪŋ bæɡ"], "shopping baskets": ["ˈʃɒpɪŋ ˌbɑːskɪts"], "sick bag": ["ˈsɪk bæɡ"], "sign": ["saɪn"], "sliding doors": ["ˌslaɪdɪŋ ˈdɔːz", "ˌslaɪdɪŋ ˈdɔːrz"], "stack of trays": ["ˌstæk əv ˈtreɪz"], "steps": ["steps"], "stool": ["stuːl"], "suitcase": ["ˈsuːtkeɪs"], "sun cream": ["ˈsʌn kriːm"], "sun hat": ["ˈsʌn hæt"], "sunglasses": ["ˈsʌnɡlɑːsɪz"], "sweet jar": ["ˈswiːt dʒɑː", "ˈswiːt dʒɑːr"], "table": ["ˈteɪbl"], "tail": ["teɪl"], "takeaway cup": ["ˈteɪkəweɪ kʌp"], "taxi": ["ˈtæksi"], "taxi sign": ["ˈtæksi saɪn"], "teddy bear": ["ˈtedi beə", "ˈtedi beːr"], "till": ["tɪl"], "toy car": ["ˈtɔɪ kɑː", "ˈtɔɪ kɑːr"], "traffic cone": ["ˈtræfɪk kəʊn"], "trainers": ["ˈtreɪnəz", "ˈtreɪnərz"], "tray": ["treɪ"], "tray table": ["ˈtreɪ ˌteɪbl"], "trolley": ["ˈtrɒli"], "van": ["væn"], "vending machine": ["ˈvendɪŋ məˌʃiːn"], "wand": ["wɒnd"], "watch": ["wɒtʃ"], "water bottles": ["ˈwɔːtə ˌbɒtlz", "ˈwɔːtər ˌbɒtlz"], "water fountain": ["ˈwɔːtə ˌfaʊntɪn", "ˈwɔːtər ˌfaʊntɪn"], "wet floor sign": ["ˌwet ˈflɔː saɪn", "ˌwet ˈflɔːr saɪn"], "wheel": ["wiːl"], "wheelchair": ["ˈwiːltʃeə", "ˈwiːltʃeːr"], "wheelchairs": ["ˈwiːltʃeəz", "ˈwiːltʃeːrz"], "wheels": ["wiːlz"], "whisky": ["ˈwɪski"], "white line": ["ˌwaɪt ˈlaɪn"], "white wine": ["ˌwaɪt ˈwaɪn"], "window": ["ˈwɪndəʊ"], "window blind": ["ˈwɪndəʊ blaɪnd"], "windows": ["ˈwɪndəʊz"], "wing": ["wɪŋ"], "wing mirror": ["ˈwɪŋ ˌmɪrə", "ˈwɪŋ ˌmɪrər"], "wrapping machine": ["ˈræpɪŋ məˌʃiːn"], "yellow line": ["ˌjeləʊ ˈlaɪn"], "zebra crossing": ["ˌzebrə ˈkrɒsɪŋ"]};
+var IPA={"X-ray machine": ["ˈeks reɪ məˌʃiːn"], "adaptor": ["əˈdæptə", "əˈdæptər"], "air vent": ["ˈeə vent", "ˈeːr vent"], "aisle": ["aɪl"], "aloe vera gel": ["ˌæləʊ ˌvɪərə ˈdʒel"], "apples": ["ˈæplz"], "armrest": ["ˈɑːmrest", "ˈɑːrmrest"], "arrow": ["ˈærəʊ"], "backpack": ["ˈbækpæk"], "bag drop": ["ˈbæɡ drɒp"], "bag scale": ["ˈbæɡ skeɪl"], "bag tags": ["ˈbæɡ tæɡz"], "baggage carousel": ["ˈbæɡɪdʒ kærəˌsel"], "bags of sweets": ["ˌbæɡz əv ˈswiːts"], "balloons": ["bəˈluːnz"], "bar stool": ["ˈbɑː stuːl", "ˈbɑːr stuːl"], "beach": ["biːtʃ"], "bell": ["bel"], "belt": ["belt"], "bench": ["bentʃ"], "bicycle box": ["ˈbaɪsɪkl bɒks"], "bin": ["bɪn"], "biscuit tin": ["ˈbɪskɪt tɪn"], "biscuits": ["ˈbɪskɪts"], "blanket": ["ˈblæŋkɪt"], "body lotion": ["ˈbɒdi ˌləʊʃn"], "body scanner": ["ˈbɒdi ˌskænə", "ˈbɒdi ˌskænər"], "bollard": ["ˈbɒlɑːd", "ˈbɒlɑːrd"], "boot": ["buːt"], "bottles of juice": ["ˌbɒtlz əv ˈdʒuːs"], "bouquet": ["buˈkeɪ"], "box of chocolates": ["ˌbɒks əv ˈtʃɒkləts"], "box of gloves": ["ˌbɒks əv ˈɡlʌvz"], "buckle": ["ˈbʌkl"], "bus": ["bʌs"], "bus shelter": ["ˈbʌs ˌʃeltə", "ˈbʌs ˌʃeltər"], "bus stop sign": ["ˈbʌs stɒp saɪn"], "cabin bag": ["ˈkæbɪn bæɡ"], "cabinet": ["ˈkæbɪnət"], "camera": ["ˈkæmərə"], "canopy": ["ˈkænəpi"], "car hire desk": ["ˈkɑː haɪə desk", "ˈkɑːr haɪər desk"], "car keys": ["ˈkɑː kiːz", "ˈkɑːr kiːz"], "card machine": ["ˈkɑːd məˌʃiːn", "ˈkɑːrd məˌʃiːn"], "carpet": ["ˈkɑːpɪt", "ˈkɑːrpɪt"], "cash machine": ["ˈkæʃ məˌʃiːn"], "ceiling light": ["ˈsiːlɪŋ laɪt"], "chair": ["tʃeə", "tʃeːr"], "charging cables": ["ˈtʃɑːdʒɪŋ ˌkeɪblz", "ˈtʃɑːrdʒɪŋ ˌkeɪblz"], "charging point": ["ˈtʃɑːdʒɪŋ pɔɪnt", "ˈtʃɑːrdʒɪŋ pɔɪnt"], "check-in desk": ["ˈtʃekɪn desk"], "chocolate bars": ["ˈtʃɒklət bɑːz", "ˈtʃɒklət bɑːrz"], "clock": ["klɒk"], "cloud": ["klaʊd"], "cockpit": ["ˈkɒkpɪt"], "coffee machine": ["ˈkɒfi məˌʃiːn"], "conveyor belt": ["kənˈveɪə belt", "kənˈveɪər belt"], "counter": ["ˈkaʊntə", "ˈkaʊntər"], "crisps": ["krɪsps"], "croissants": ["ˈkwæsɒnts"], "curtain": ["ˈkɜːtn", "ˈkɜːrtn"], "cushion": ["ˈkʊʃn"], "departure board": ["dɪˈpɑːtʃə bɔːd", "dɪˈpɑːrtʃər bɔːrd"], "departures board": ["dɪˈpɑːtʃəz bɔːd", "dɪˈpɑːrtʃərz bɔːrd"], "departures sign": ["dɪˈpɑːtʃəz saɪn", "dɪˈpɑːrtʃərz saɪn"], "desk": ["desk"], "display case": ["dɪˈspleɪ keɪs"], "door": ["dɔː", "dɔːr"], "doorway": ["ˈdɔːweɪ", "ˈdɔːrweɪ"], "e-gate": ["ˈiː ɡeɪt"], "emergency button": ["ɪˈmɜːdʒənsi ˌbʌtn", "ɪˈmɜːrdʒənsi ˌbʌtn"], "engine": ["ˈendʒɪn"], "exit sign": ["ˈeksɪt saɪn"], "eye mask": ["ˈaɪ mɑːsk"], "face cream": ["ˈfeɪs kriːm"], "floor lights": ["ˈflɔː laɪts", "ˈflɔːr laɪts"], "forms": ["fɔːmz", "fɔːrmz"], "foundation": ["faʊnˈdeɪʃn"], "frosted glass": ["ˌfrɒstɪd ˈɡlɑːs"], "gate desk": ["ˈɡeɪt desk"], "gift boxes": ["ˈɡɪft ˌbɒksɪz"], "glass screen": ["ˌɡlɑːs ˈskriːn"], "golf bag": ["ˈɡɒlf bæɡ"], "golf clubs": ["ˈɡɒlf klʌbz"], "headrest": ["ˈhedrest"], "holdall": ["ˈhəʊldɔːl"], "jet bridge": ["ˈdʒet brɪdʒ"], "kerb": ["kɜːb", "kɜːrb"], "keys": ["kiːz"], "laptop": ["ˈlæptɒp"], "life jacket": ["ˈlaɪf ˌdʒækɪt"], "lighthouse": ["ˈlaɪthaʊs"], "lipstick": ["ˈlɪpstɪk"], "lost luggage desk": ["ˌlɒst ˈlʌɡɪdʒ desk"], "luggage sizer": ["ˈlʌɡɪdʒ ˌsaɪzə", "ˈlʌɡɪdʒ ˌsaɪzər"], "luggage tag": ["ˈlʌɡɪdʒ tæɡ"], "luggage trolley": ["ˈlʌɡɪdʒ ˌtrɒli"], "luggage trolleys": ["ˈlʌɡɪdʒ ˌtrɒliz"], "manhole cover": ["ˈmænhəʊl ˌkʌvə", "ˈmænhəʊl ˌkʌvər"], "map": ["mæp"], "meeting rail": ["ˈmiːtɪŋ reɪl"], "metal detector": ["ˈmetl dɪˌtektə", "ˈmetl dɪˌtektər"], "mirror": ["ˈmɪrə", "ˈmɪrər"], "monitor": ["ˈmɒnɪtə", "ˈmɒnɪtər"], "muffins": ["ˈmʌfɪnz"], "nail varnish": ["ˈneɪl ˌvɑːnɪʃ", "ˈneɪl ˌvɑːrnɪʃ"], "neck pillow": ["ˈnek ˌpɪləʊ"], "newspaper": ["ˈnjuːzpeɪpə", "ˈnjuːzpeɪpər"], "newspaper rack": ["ˈnjuːzpeɪpə ræk", "ˈnjuːzpeɪpər ræk"], "number plate": ["ˈnʌmbə pleɪt", "ˈnʌmbər pleɪt"], "office chair": ["ˈɒfɪs ˌtʃeə", "ˈɒfɪs ˌtʃeːr"], "overhead locker": ["ˌəʊvəhed ˈlɒkə", "ˌəʊvərhed ˈlɒkər"], "palm tree": ["ˈpɑːm triː"], "paper cups": ["ˌpeɪpə ˈkʌps", "ˌpeɪpər ˈkʌps"], "passport booth": ["ˈpɑːspɔːt buːð", "ˈpɑːspɔːrt buːð"], "passport reader": ["ˈpɑːspɔːt ˌriːdə", "ˈpɑːspɔːrt ˌriːdər"], "pavement": ["ˈpeɪvmənt"], "perfume": ["ˈpɜːfjuːm", "ˈpɜːrfjuːm"], "phone": ["fəʊn"], "picture": ["ˈpɪktʃə", "ˈpɪktʃər"], "pillar": ["ˈpɪlə", "ˈpɪlər"], "pillow": ["ˈpɪləʊ"], "plane": ["pleɪn"], "plant": ["plɑːnt"], "plant pot": ["ˈplɑːnt pɒt"], "planter": ["ˈplɑːntə", "ˈplɑːntər"], "plants": ["plɑːnts"], "plastic bag": ["ˌplæstɪk ˈbæɡ"], "plastic bags": ["ˌplæstɪk ˈbæɡz"], "plastic cup": ["ˌplæstɪk ˈkʌp"], "postcards": ["ˈpəʊstkɑːdz", "ˈpəʊstkɑːrdz"], "printer": ["ˈprɪntə", "ˈprɪntər"], "pushchair": ["ˈpʊʃtʃeə", "ˈpʊʃtʃeːr"], "queue barrier": ["ˈkjuː ˌbæriə", "ˈkjuː ˌbæriər"], "rain cover": ["ˈreɪn ˌkʌvə", "ˈreɪn ˌkʌvər"], "reading light": ["ˈriːdɪŋ laɪt"], "rear light": ["ˈrɪə laɪt", "ˈrɪər laɪt"], "recycling bin": ["riːˈsaɪklɪŋ bɪn"], "red wine": ["ˌred ˈwaɪn"], "revolving door": ["rɪˌvɒlvɪŋ ˈdɔː", "rɪˌvɒlvɪŋ ˈdɔːr"], "ride-on suitcase": ["ˈraɪd ɒn ˌsuːtkeɪs"], "rollers": ["ˈrəʊləz", "ˈrəʊlərz"], "rucksack": ["ˈrʌksæk"], "safety card": ["ˈseɪfti kɑːd", "ˈseɪfti kɑːrd"], "sandwiches": ["ˈsænwɪdʒɪz"], "scanner": ["ˈskænə", "ˈskænər"], "screen": ["skriːn"], "seat": ["siːt"], "seatbelt": ["ˈsiːtbelt"], "seatbelt sign": ["ˈsiːtbelt saɪn"], "seats": ["siːts"], "self check-in kiosk": ["ˌself ˈtʃekɪn ˌkiːɒsk"], "sheep": ["ʃiːp"], "shelf": ["ʃelf"], "shoes": ["ʃuːz"], "shopping bag": ["ˈʃɒpɪŋ bæɡ"], "shopping baskets": ["ˈʃɒpɪŋ ˌbɑːskɪts"], "sick bag": ["ˈsɪk bæɡ"], "sign": ["saɪn"], "sliding doors": ["ˌslaɪdɪŋ ˈdɔːz", "ˌslaɪdɪŋ ˈdɔːrz"], "stack of trays": ["ˌstæk əv ˈtreɪz"], "steps": ["steps"], "stool": ["stuːl"], "suitcase": ["ˈsuːtkeɪs"], "sun cream": ["ˈsʌn kriːm"], "sun hat": ["ˈsʌn hæt"], "sunglasses": ["ˈsʌnɡlɑːsɪz"], "sweet jar": ["ˈswiːt dʒɑː", "ˈswiːt dʒɑːr"], "table": ["ˈteɪbl"], "tail": ["teɪl"], "takeaway cup": ["ˈteɪkəweɪ kʌp"], "taxi": ["ˈtæksi"], "taxi sign": ["ˈtæksi saɪn"], "teddy bear": ["ˈtedi beə", "ˈtedi beːr"], "till": ["tɪl"], "toy car": ["ˈtɔɪ kɑː", "ˈtɔɪ kɑːr"], "traffic cone": ["ˈtræfɪk kəʊn"], "trainers": ["ˈtreɪnəz", "ˈtreɪnərz"], "tray": ["treɪ"], "trolley": ["ˈtrɒli"], "van": ["væn"], "vending machine": ["ˈvendɪŋ məˌʃiːn"], "wand": ["wɒnd"], "watch": ["wɒtʃ"], "water bottles": ["ˈwɔːtə ˌbɒtlz", "ˈwɔːtər ˌbɒtlz"], "water fountain": ["ˈwɔːtə ˌfaʊntɪn", "ˈwɔːtər ˌfaʊntɪn"], "wet floor sign": ["ˌwet ˈflɔː saɪn", "ˌwet ˈflɔːr saɪn"], "wheel": ["wiːl"], "wheelchair": ["ˈwiːltʃeə", "ˈwiːltʃeːr"], "wheelchairs": ["ˈwiːltʃeəz", "ˈwiːltʃeːrz"], "wheels": ["wiːlz"], "whisky": ["ˈwɪski"], "white line": ["ˌwaɪt ˈlaɪn"], "white wine": ["ˌwaɪt ˈwaɪn"], "window": ["ˈwɪndəʊ"], "window blind": ["ˈwɪndəʊ blaɪnd"], "windows": ["ˈwɪndəʊz"], "wing": ["wɪŋ"], "wing mirror": ["ˈwɪŋ ˌmɪrə", "ˈwɪŋ ˌmɪrər"], "wrapping machine": ["ˈræpɪŋ məˌʃiːn"], "yellow line": ["ˌjeləʊ ˈlaɪn"], "zebra crossing": ["ˌzebrə ˈkrɒsɪŋ"]};
 var stage=document.getElementById('stage'), task=document.getElementById('task'), countEl=document.getElementById('count'),
     sub=document.getElementById('sub'), foot=document.getElementById('foot'), photo=document.getElementById('photo'),
     strip=document.getElementById('roomstrip');
